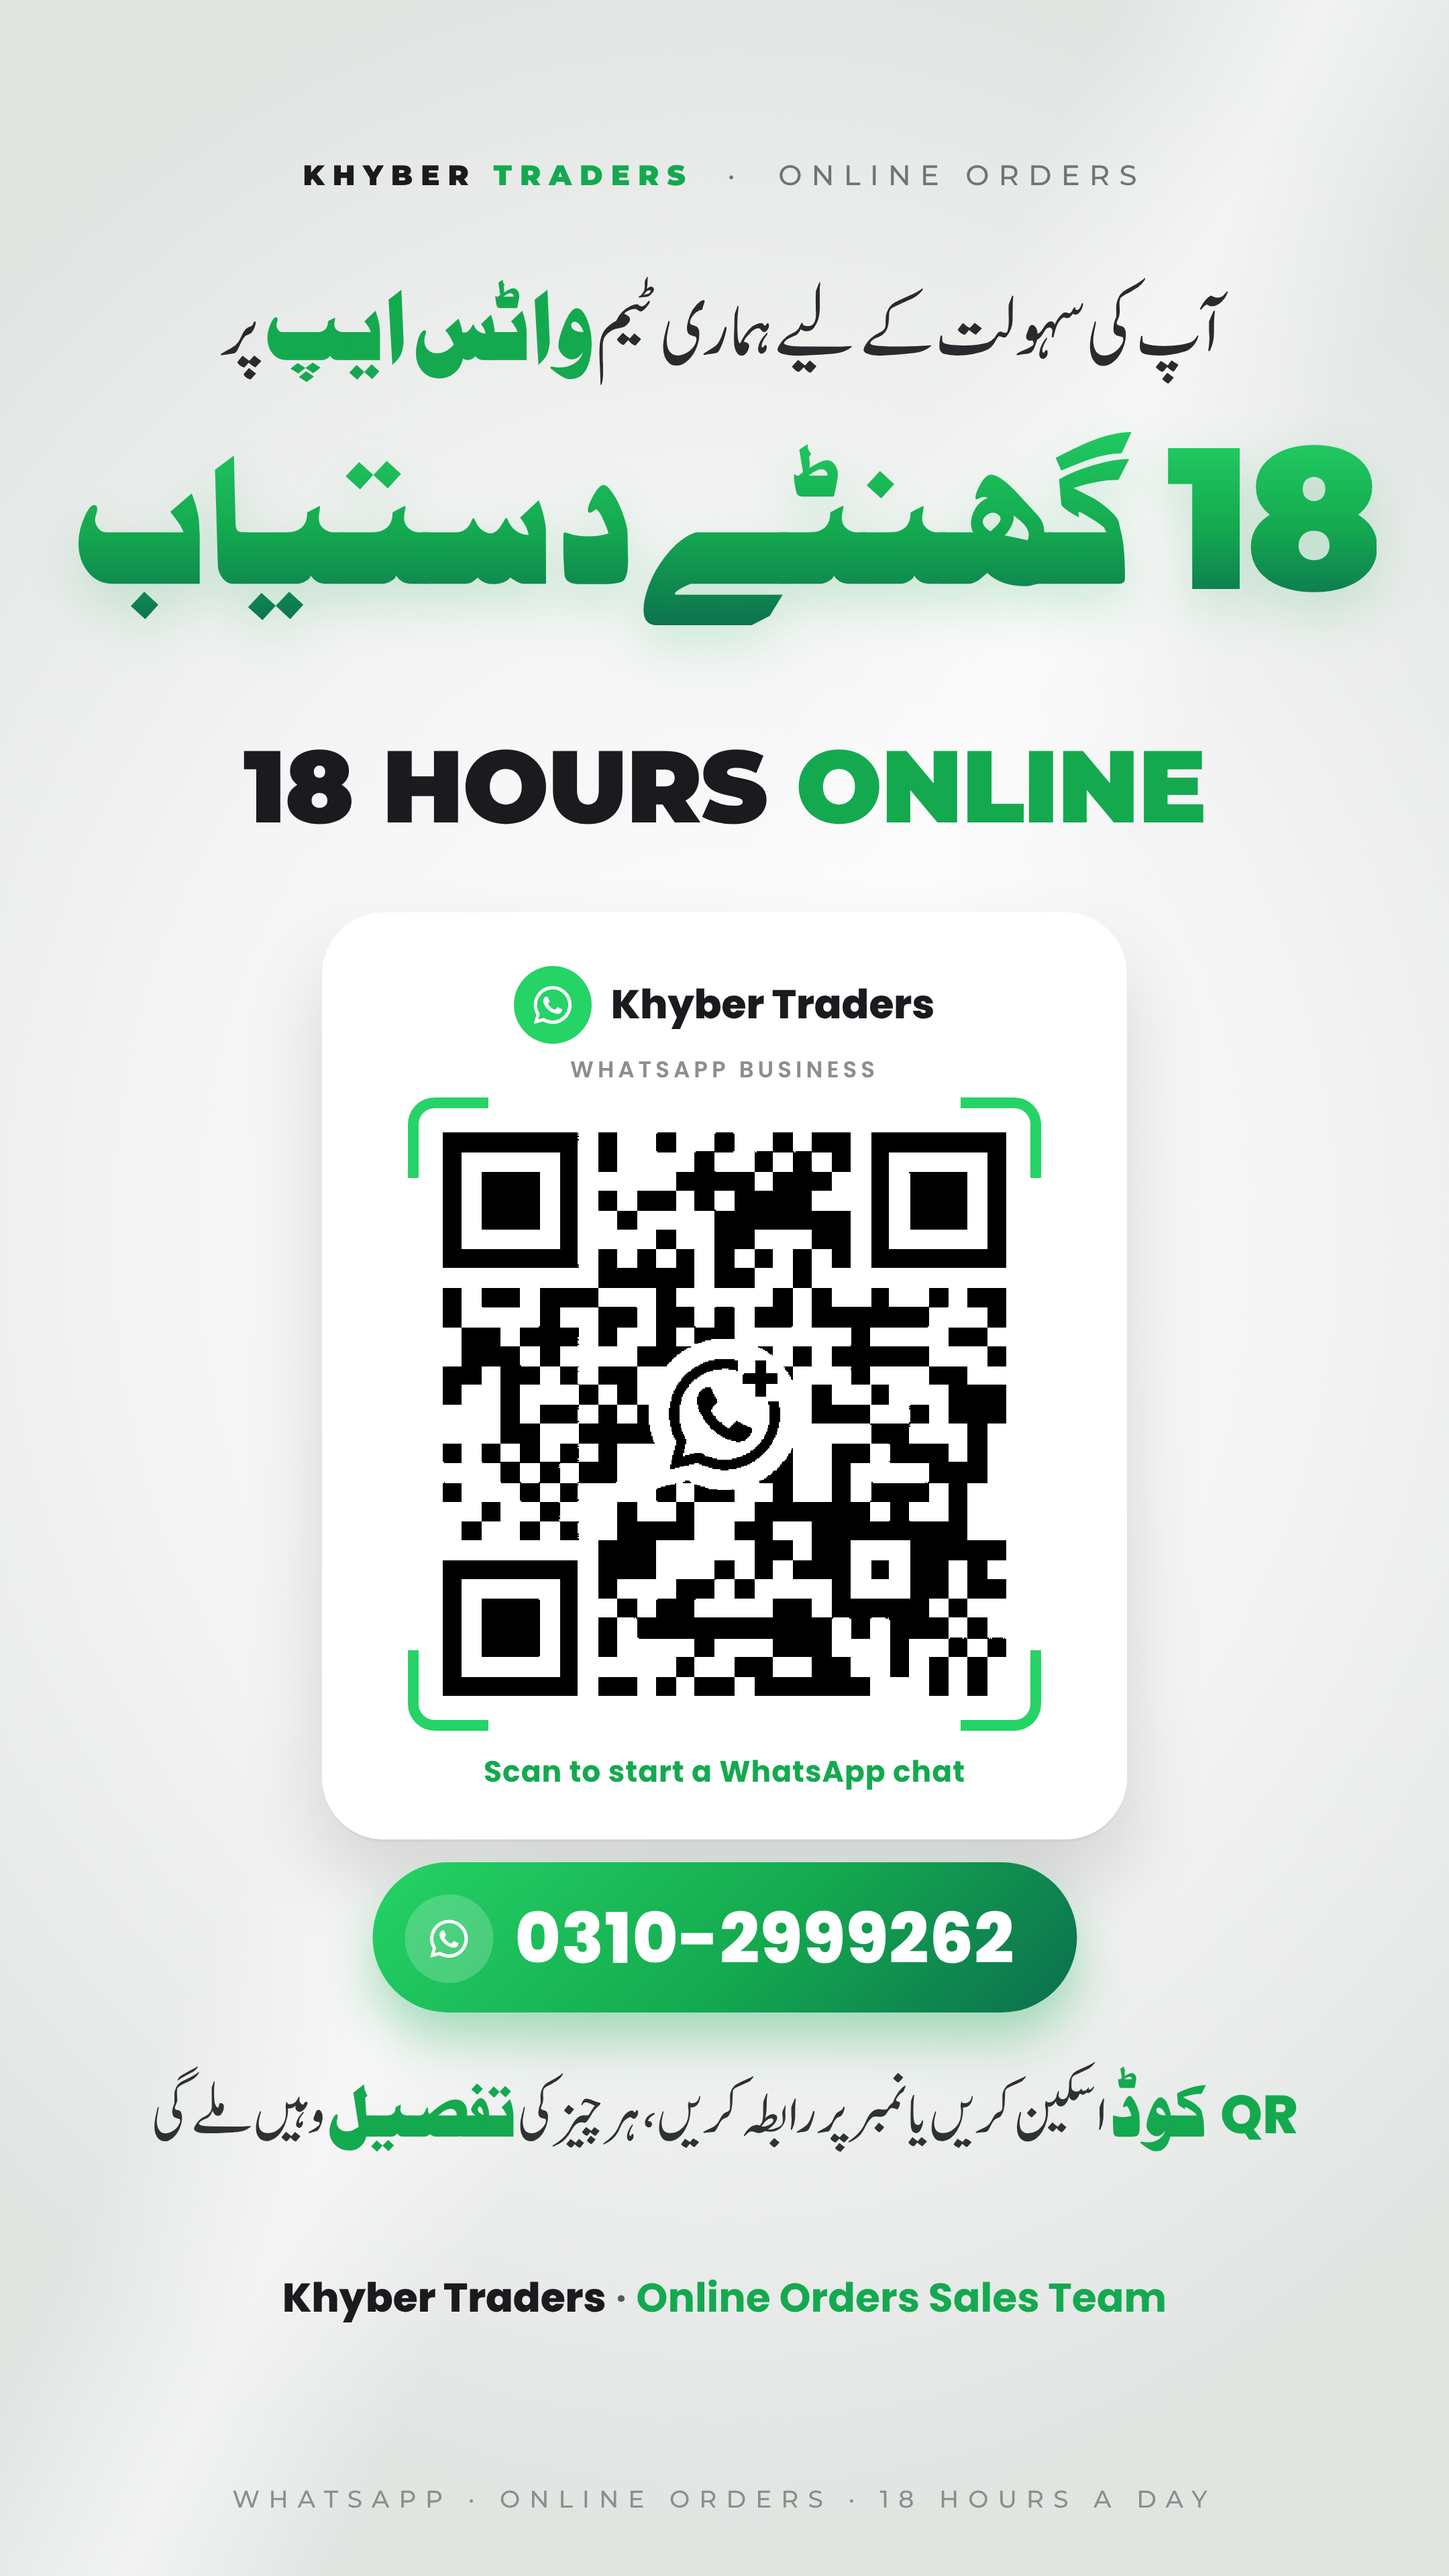
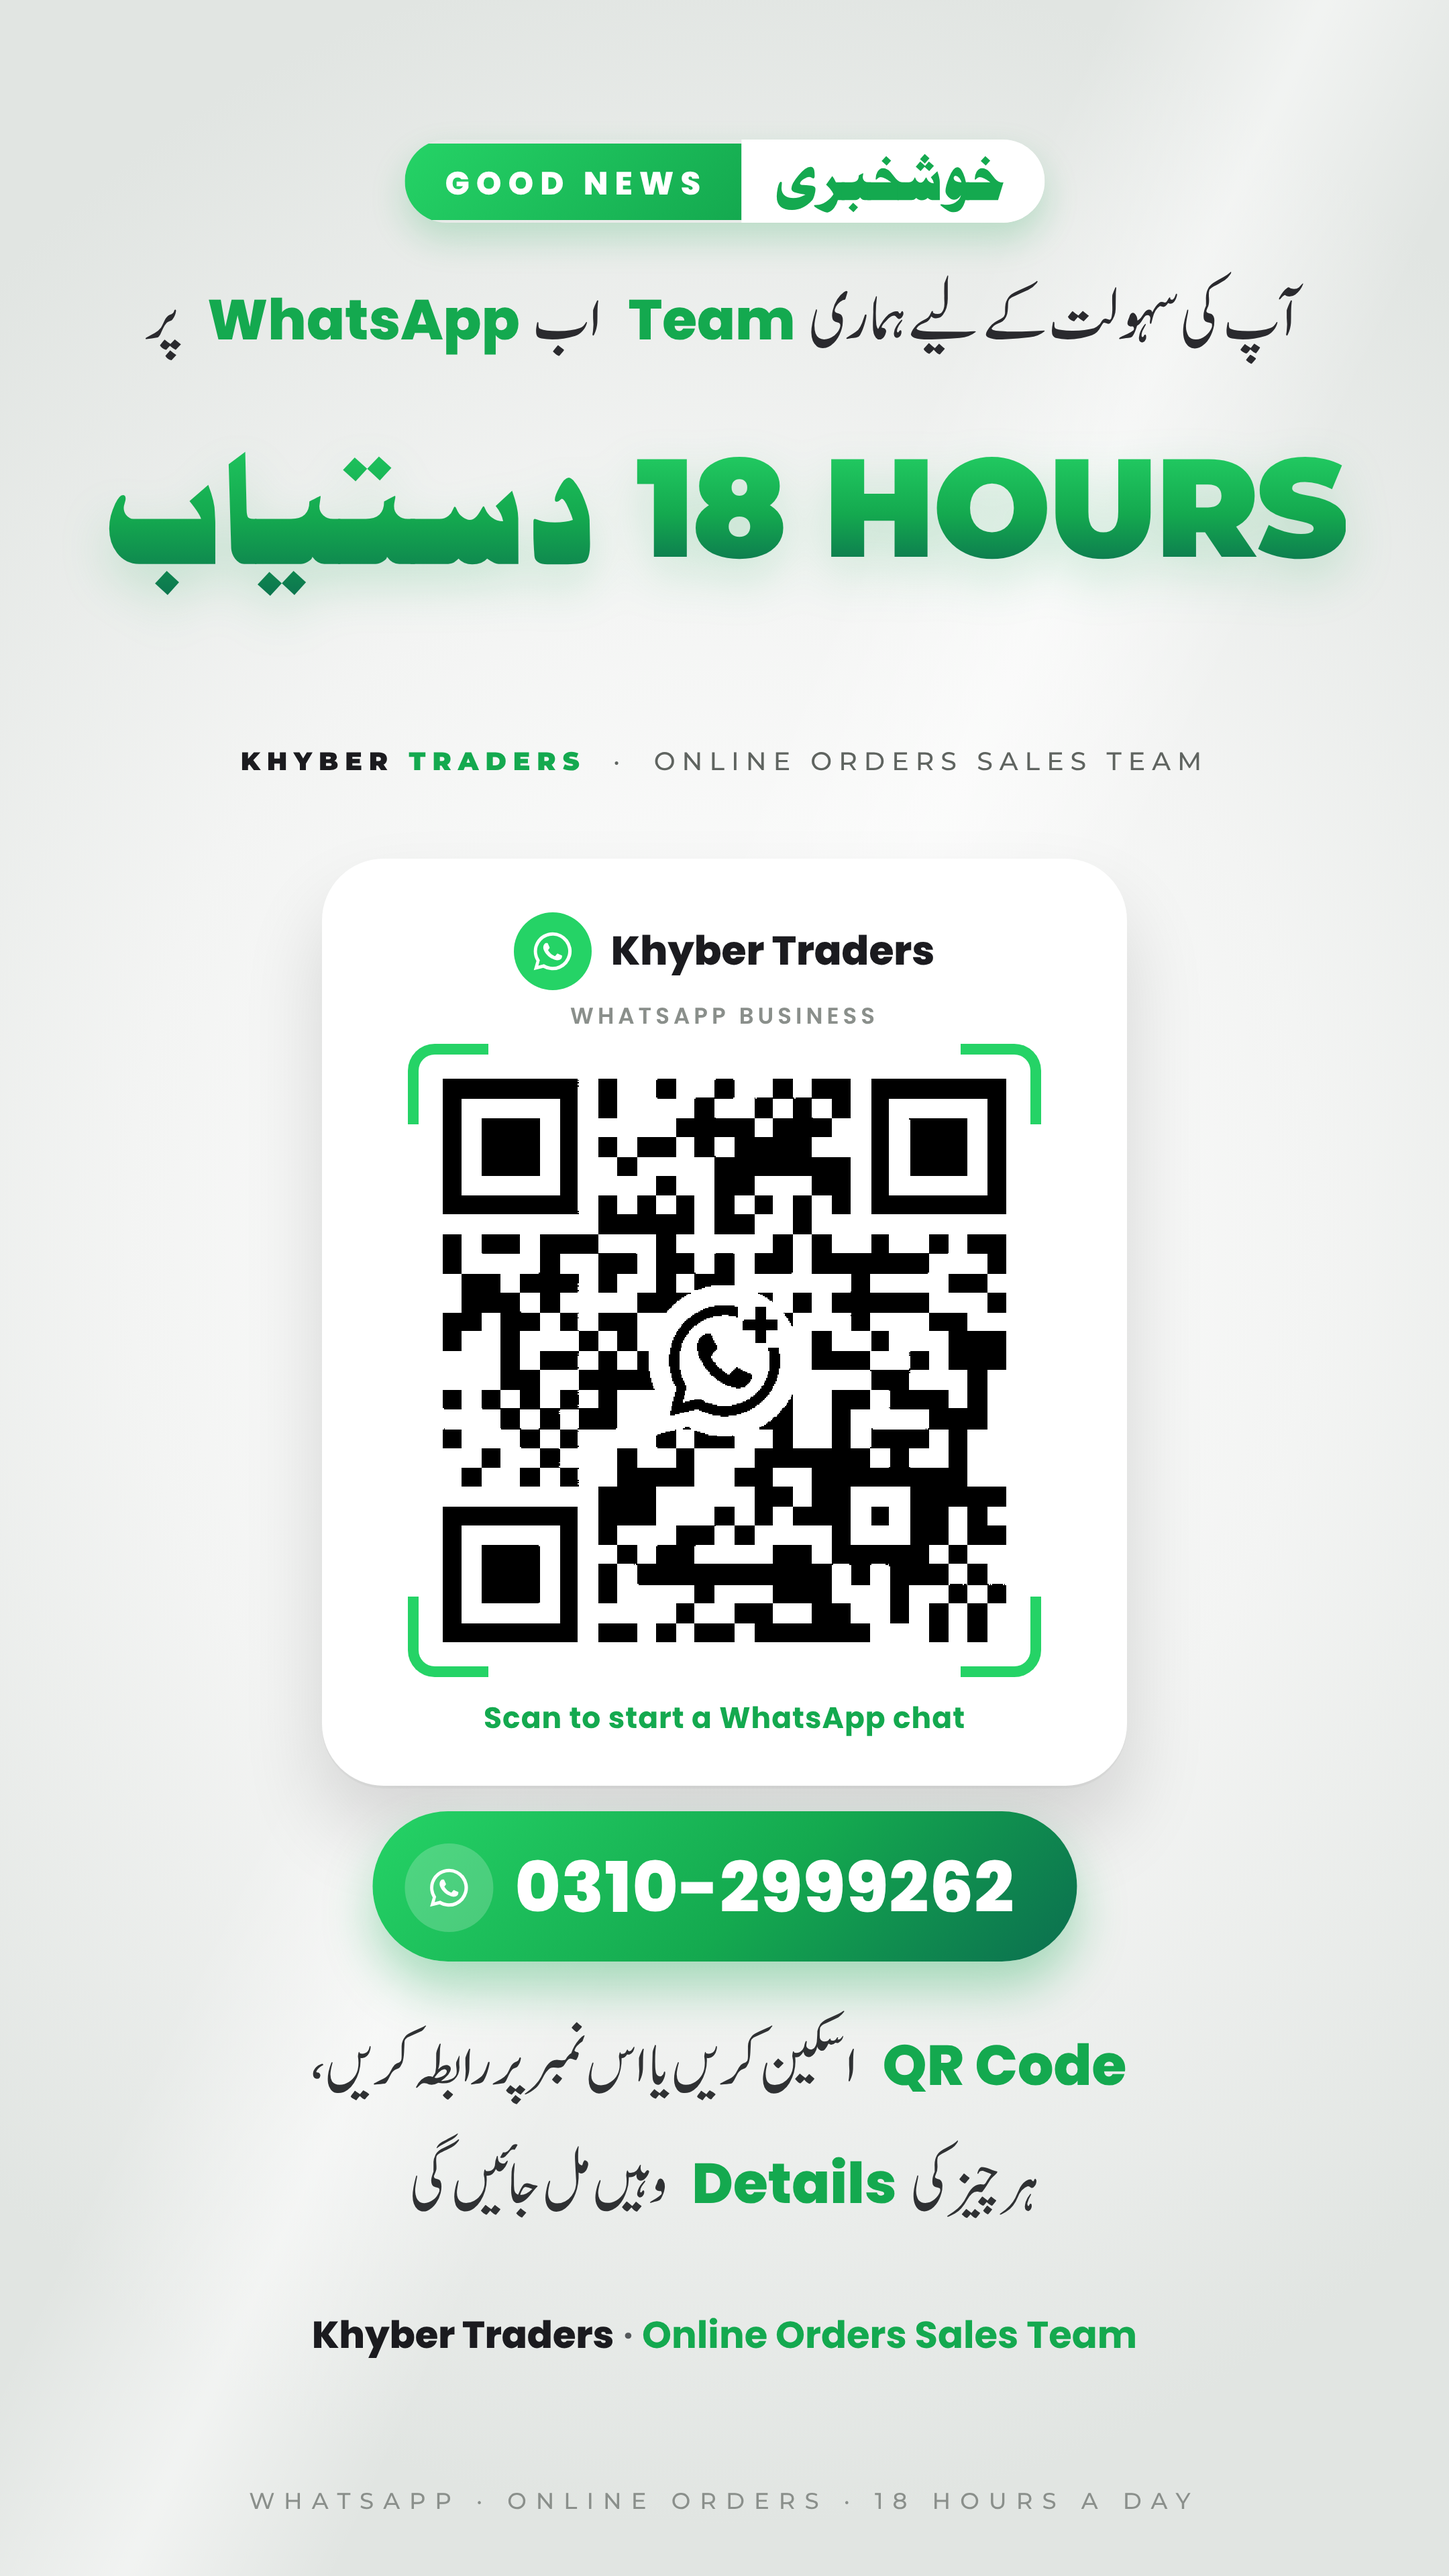
WhatsApp post: Good News / خوشخبری header, owner's sentence arranged, English words in English
Claude-Session: https://claude.ai/code/session_0139To4Bi5mkGo2BmfVPNRP3

diff --git a/tools/posts/whatsapp_post.py b/tools/posts/whatsapp_post.py
@@ -1,0 +1,74 @@
+#!/usr/bin/env python3
+"""Khyber Traders WhatsApp contact post (locked product-post look, WhatsApp green). Needs the cleaned QR at
+Video Edits/Export/whatsapp-post/work/waqr.png (crop of the owner's WhatsApp QR screenshot, binarised, 3x NEAREST).
+Verify the QR still decodes after every change."""
+import json,subprocess
+from pathlib import Path
+from PIL import Image
+R=Path(__file__).resolve().parents[2]
+F=lambda g: str(next(R.joinpath('fonts').rglob(g)))
+fonts=[{"family":"Noori","path":F("JameelNooriNastaleeq-400.ttf"),"weight":400,"style":"normal"},
+ {"family":"Aslam","path":F("Aslam-400.ttf"),"weight":400,"style":"normal"},
+ {"family":"Montserrat","path":F("Montserrat-900.ttf"),"weight":900,"style":"normal"},
+ {"family":"Montserrat","path":F("Montserrat-500.ttf"),"weight":500,"style":"normal"},
+ {"family":"Poppins","path":F("Poppins-600.ttf"),"weight":600,"style":"normal"},
+ {"family":"Poppins","path":F("Poppins-700.ttf"),"weight":700,"style":"normal"},
+ {"family":"Poppins","path":F("Poppins-800.ttf"),"weight":800,"style":"normal"}]
+d=R/"Video Edits/Export/whatsapp-post"; QR=d/"work"/"waqr.png"
+G="#14A94F"; G2="#25D366"; GD="#0B6E4F"; INK="#1B1B1F"
+wa='<svg width="34" height="34" viewBox="0 0 24 24"><path fill="#fff" d="M12 2a10 10 0 0 0-8.6 15.1L2 22l5-1.3A10 10 0 1 0 12 2zm0 18.2c-1.5 0-3-.4-4.3-1.2l-.3-.2-3 .8.8-2.9-.2-.3A8.2 8.2 0 1 1 12 20.2zm4.5-6.1c-.2-.1-1.5-.7-1.7-.8-.2-.1-.4-.1-.6.1l-.8 1c-.1.2-.3.2-.5.1a6.7 6.7 0 0 1-3.3-2.9c-.2-.4.2-.4.7-1.3.1-.2 0-.3 0-.4l-.8-1.8c-.2-.5-.4-.4-.6-.4h-.5c-.2 0-.4.1-.6.3-.2.2-.8.8-.8 2s.8 2.3.9 2.5c.1.2 1.7 2.6 4.2 3.6 1.5.7 2.1.7 2.9.6.5-.1 1.5-.6 1.7-1.2.2-.6.2-1.1.2-1.2-.1-.1-.2-.2-.5-.3z"/></svg>'
+E=lambda t,s="inherit",c=G,w=800: f'<bdi style="font:{w} {s} Poppins;color:{c};letter-spacing:0;margin:0 .22em">{t}</bdi>'
+css=f"""
+*{{margin:0;padding:0;box-sizing:border-box}}
+#p{{position:absolute;inset:0;overflow:hidden;font-family:Poppins;color:{INK};background:radial-gradient(ellipse 75% 50% at 50% 48%,#FFFFFF 0%,#F3F4F3 55%,#E1E5E2 100%)}}
+.sheen{{position:absolute;inset:0;background:linear-gradient(115deg,transparent 42%,rgba(255,255,255,.55) 50%,transparent 58%)}}
+.gn{{position:absolute;top:104px;left:50%;transform:translateX(-50%);display:flex;align-items:center;gap:0;white-space:nowrap;border-radius:60px;overflow:hidden;
+ box-shadow:0 12px 26px rgba(20,169,79,.22)}}
+.gn b{{background:linear-gradient(135deg,{G2},{G});color:#fff;font:800 24px Poppins;letter-spacing:5px;padding:12px 26px 10px 30px}}
+.gn span{{background:#fff;color:{G};font:44px/1 Aslam;padding:6px 28px 12px 24px;direction:rtl}}
+.l1{{position:absolute;top:196px;left:0;right:0;text-align:center;direction:rtl;font:54px/1.6 Noori;color:#2a2a2e}}
+.hero{{position:absolute;top:302px;left:0;right:0;display:flex;justify-content:center;align-items:center;gap:30px;direction:rtl;white-space:nowrap;
+ filter:drop-shadow(0 14px 18px rgba(20,169,79,.2))}}
+.hero .n{{font:900 104px/1 Montserrat;letter-spacing:-2px;background:linear-gradient(180deg,{G2},{G} 55%,{GD});-webkit-background-clip:text;color:transparent;direction:ltr}}
+.hero .u{{font:112px/1.35 Aslam;background:linear-gradient(180deg,{G2},{G} 55%,{GD});-webkit-background-clip:text;color:transparent}}
+.en{{position:absolute;top:556px;left:0;right:0;text-align:center;font:500 19px Montserrat;letter-spacing:5px;color:#5f6460}}
+.en b{{font-weight:900;color:{INK};letter-spacing:5px}} .en i{{font-style:normal;color:{G};font-weight:900}}
+.card{{position:absolute;left:50%;top:640px;transform:translateX(-50%);width:600px;background:#fff;border-radius:46px;padding:40px 0 34px;text-align:center;
+ box-shadow:0 34px 60px rgba(0,0,0,.14),0 2px 0 rgba(0,0,0,.03)}}
+.card .hd{{display:flex;align-items:center;justify-content:center;gap:14px;font:800 30px Poppins}}
+.card .hd em{{width:58px;height:58px;border-radius:50%;background:{G2};display:flex;align-items:center;justify-content:center}}
+.card small{{display:block;font:600 17px Poppins;letter-spacing:3px;color:#8a8f8b;margin-top:6px}}
+.qw{{position:relative;width:420px;height:420px;margin:34px auto 0}}
+.qw img{{width:420px;height:420px;image-rendering:pixelated;display:block}}
+.br{{position:absolute;width:60px;height:60px;border:8px solid {G2}}}
+.b1{{left:-26px;top:-26px;border-right:none;border-bottom:none;border-radius:20px 0 0 0}}
+.b2{{right:-26px;top:-26px;border-left:none;border-bottom:none;border-radius:0 20px 0 0}}
+.b3{{left:-26px;bottom:-26px;border-right:none;border-top:none;border-radius:0 0 0 20px}}
+.b4{{right:-26px;bottom:-26px;border-left:none;border-top:none;border-radius:0 0 20px 0}}
+.card .sc{{font:700 22px Poppins;color:{G};margin-top:40px;letter-spacing:.5px}}
+.num{{position:absolute;top:1350px;left:50%;transform:translateX(-50%);white-space:nowrap;display:flex;align-items:center;gap:16px;
+ background:linear-gradient(135deg,{G2},{G} 55%,{GD});color:#fff;font:800 52px Poppins;letter-spacing:.5px;padding:18px 46px 16px 24px;border-radius:80px;
+ box-shadow:0 20px 36px rgba(20,169,79,.35)}}
+.num em{{width:66px;height:66px;border-radius:50%;background:rgba(255,255,255,.2);display:flex;align-items:center;justify-content:center}}
+.l4{{position:absolute;top:1498px;left:70px;right:70px;text-align:center;direction:rtl;font:50px/1.75 Noori;color:#2f3133}}
+.l5{{position:absolute;top:1720px;left:0;right:0;text-align:center;font:600 28px Poppins;color:#55595c}}
+.l5 b{{color:{INK};font-weight:800}} .l5 i{{font-style:normal;color:{G};font-weight:700}}
+.ft{{position:absolute;bottom:46px;left:0;right:0;text-align:center;font:500 17px Montserrat;letter-spacing:7px;color:#8a8f8b}}
+"""
+html=f"""<div id="p"><div class="sheen"></div>
+<div class="gn"><b>GOOD NEWS</b><span>خوشخبری</span></div>
+<div class="l1">آپ کی سہولت کے لیے ہماری {E('Team','42px')} اب {E('WhatsApp','42px')} پر</div>
+<div class="hero"><div class="n">18 HOURS</div><div class="u">دستیاب</div></div>
+<div class="en"><b>KHYBER <i>TRADERS</i></b> &nbsp;·&nbsp; ONLINE ORDERS SALES TEAM</div>
+<div class="card"><div class="hd"><em>{wa}</em>Khyber Traders</div><small>WHATSAPP BUSINESS</small>
+ <div class="qw"><img src="file://{QR}"><i class="br b1"></i><i class="br b2"></i><i class="br b3"></i><i class="br b4"></i></div>
+ <div class="sc">Scan to start a WhatsApp chat</div></div>
+<div class="num"><em>{wa}</em>0310-2999262</div>
+<div class="l4">{E('QR Code','42px')} اسکین کریں یا اس نمبر پر رابطہ کریں،<br>ہر چیز کی {E('Details','42px')} وہیں مل جائیں گی</div>
+<div class="l5"><b>Khyber Traders</b> · <i>Online Orders Sales Team</i></div>
+<div class="ft">WHATSAPP · ONLINE ORDERS · 18 HOURS A DAY</div></div>"""
+out=d/"whatsapp-post.png"; job=d/"job.json"
+job.write_text(json.dumps({"width":1080,"height":1920,"scale":2,"css":css,"fonts":fonts,"states":[{"file":str(out),"html":html}]}))
+subprocess.run(["node",str(R/"tools/htmlcaps/render.js"),str(job)],check=True,capture_output=True)
+job.unlink(); (d/"page.html").unlink(missing_ok=True)
+Image.open(out).convert("RGB").save(out); print(out)
